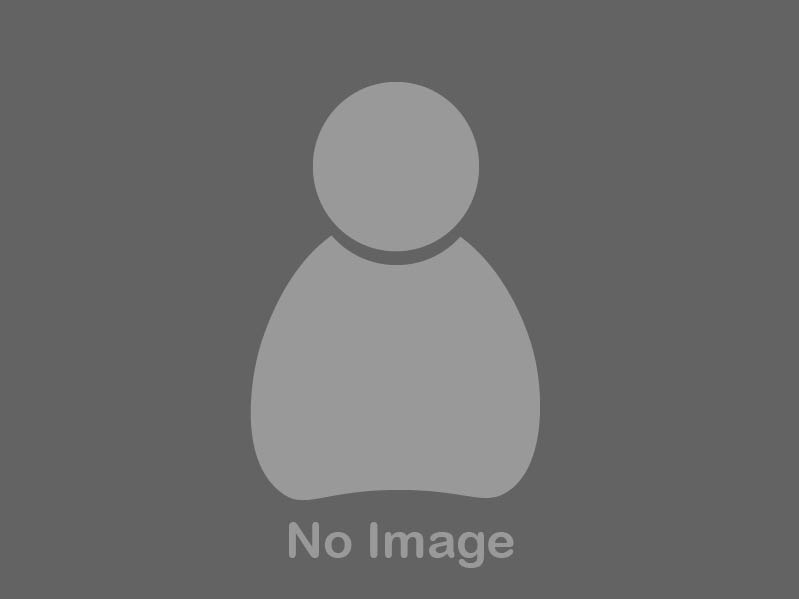
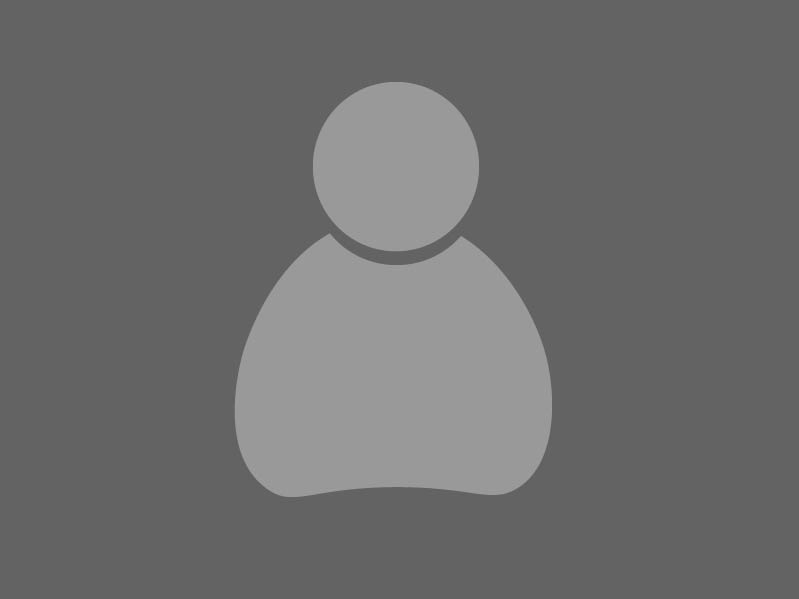
user profile image styling

diff --git a/app/assets/stylesheets/styles/_profile.scss b/app/assets/stylesheets/styles/_profile.scss
@@ -21,8 +21,10 @@
 }
 
 .user-avatar img {
-  padding: 15px;
+  margin-top: 30px;
+  width: 200px;
+  height: 200px;
   max-width: 320px;
-  border-radius: 60%;
-  border: 2px black;
+  border-radius: 50%;
+  border: 5px solid var(--dark);
 }

diff --git a/db/seeds.rb b/db/seeds.rb
@@ -46,13 +46,13 @@ tp = User.create!(
   last_name: "Palef",
   email: 'tp@gmail.com',
   password: 'password',
-  password_confirmation: 'password'
+  password_confirmation: 'password',
+  interests: 'David Ma'
 )
 tpproject = tp.projects.create!(
   name: 'Random',
   description: "This is a fake project",
   looking_for: [Category.pluck(:category_type).sample],
-  image: "https://placebear.com/#{rand(800)}/#{rand(800)}"
 )
 
 tp.members.create!(
@@ -74,7 +74,6 @@ bdproject = bd.projects.create!(
   name: 'Contrary',
   description: "Ooh LALA",
   looking_for: [Category.pluck(:category_type).sample],
-  image: "https://placebear.com/#{rand(800)}/#{rand(800)}"
 )
 
 bd.members.create!(

diff --git a/app/controllers/projects_controller.rb b/app/controllers/projects_controller.rb
@@ -32,7 +32,7 @@ class ProjectsController < ApplicationController
     load_project
     @project.name = params[:project][:name]
     @project.description = params[:project][:description]
-    @project.image = params[:project][:image]
+    # @project.image = params[:project][:image]
     @categories = params[:project][:categories]
     Categorization.all.where(project_id: @project.id).destroy_all
     @project.looking_for = params[:project][:looking_for].split(',')
